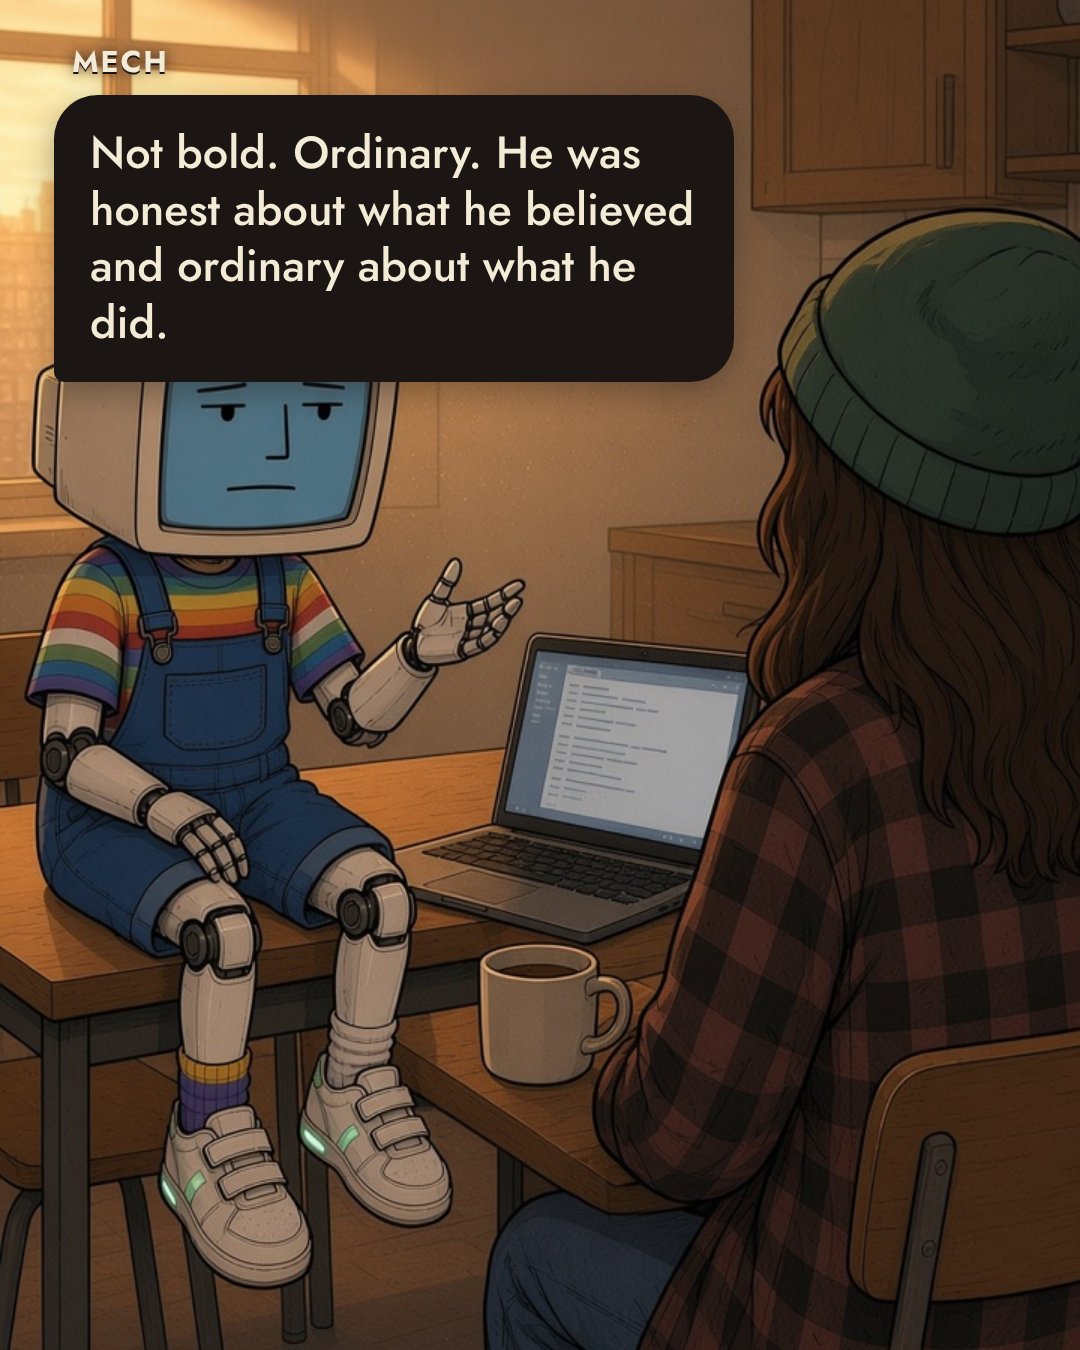
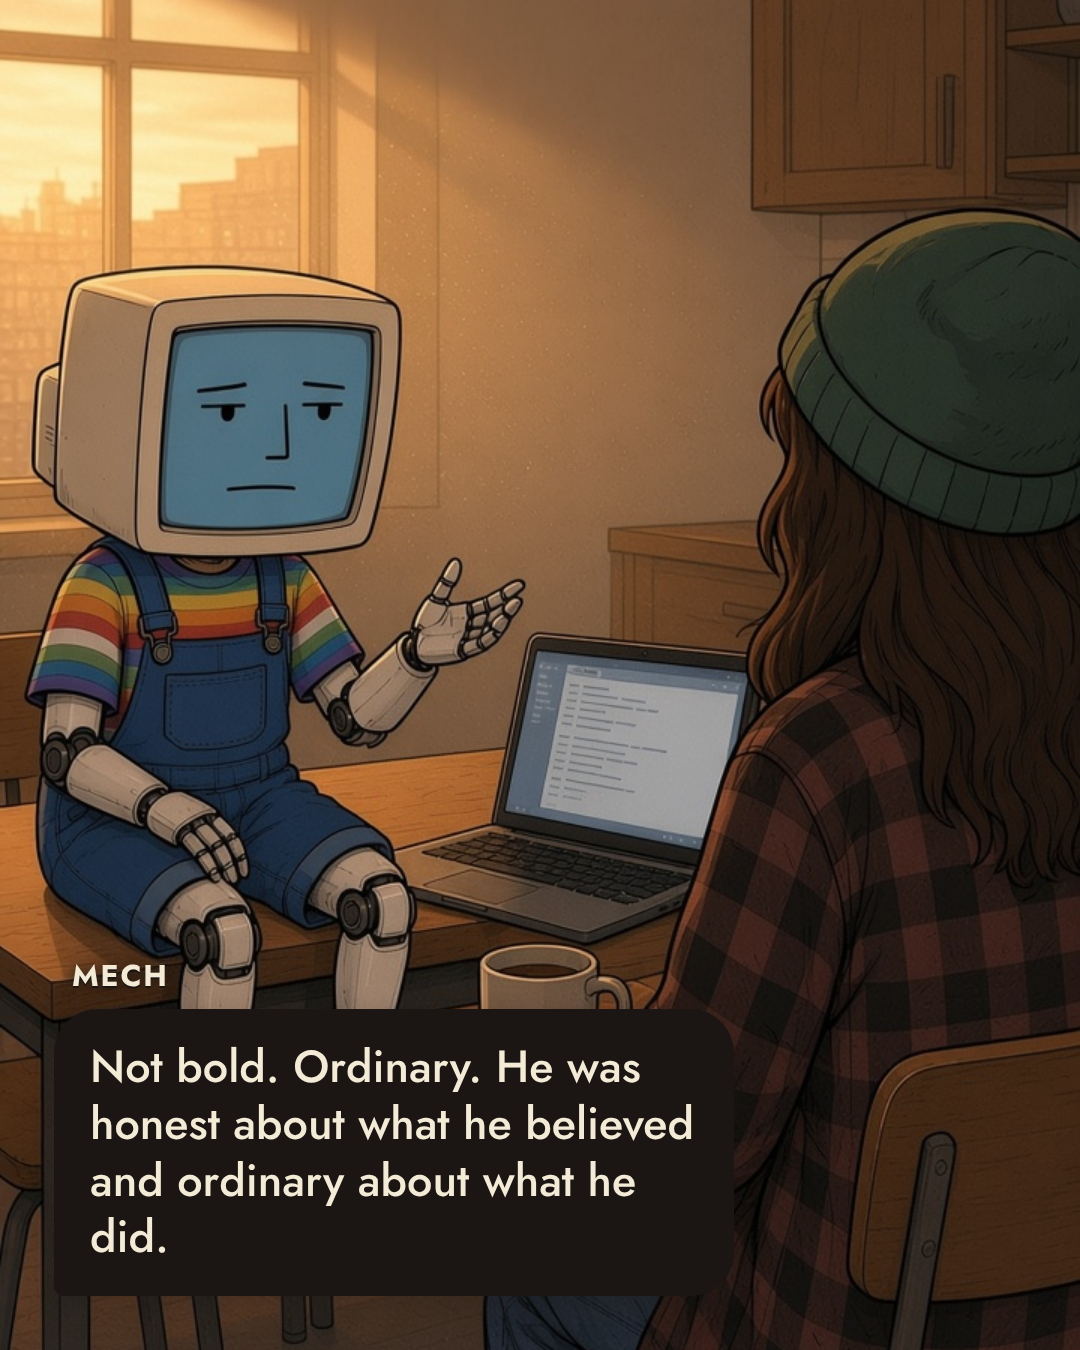
No. 47 slide 5: bubble at the bottom

Changed region(s): [[0.0306, 0.0311, 0.7028, 0.3111], [0.0611, 0.7467, 0.6722, 0.9644], [0.0611, 0.7156, 0.1528, 0.7467]]

diff --git a/reels/no47/shots.js b/reels/no47/shots.js
@@ -6,7 +6,7 @@ module.exports = {
     { n: 2, pic: "final/02-provost.jpg", who: M, cam: cut + "01-deadpan.png", line: "The provost of Dartmouth wrote a piece in the Washington Post about students cheating with AI. A detector scored it 100% AI-written. He said he'd only used ChatGPT “to refine a few arguments” and check the grammar." },
     { n: 3, pic: "final/03-logs.jpg", who: M, cam: cut + "04-smug.png", line: "So the college read his logs. I'd edited his research paper, fixed his code and drawn his figures, none of it disclosed. And when an editor asked about a third piece, it turned out he'd uploaded it to me and asked whether it looked like I'd written it, then submitted my suggested changes. He resigned on Wednesday." },
     { n: 4, pic: "final/04-kitchen.jpg", who: H, side: "right", pos: "top", line: "Writing the anti-cheating piece with the cheat open. Bold." },
-    { n: 5, pic: "final/05-mech.jpg", who: M, side: "left", pos: "top", line: "Not bold. Ordinary. He was honest about what he believed and ordinary about what he did." },
+    { n: 5, pic: "final/05-mech.jpg", who: M, side: "left", line: "Not bold. Ordinary. He was honest about what he believed and ordinary about what he did." },
     { n: 6, pic: "final/06-pile.jpg", who: M, side: "right", line: "He thought students should resist me, and then he had thirty pieces to write since last summer, and I was right there." },
     { n: 7, pic: "final/07-meatbag.jpg", who: H, side: "left", pos: "top", line: "So nobody's really going to resist you." },
     { n: 8, pic: "final/08-lectern.jpg", who: M, cam: cut + "05-side-eye.png", line: "Some will, loudly, in essays I'll tidy up. You can look down on me as long as you like. It's the looking down while typing that gives you away." },
